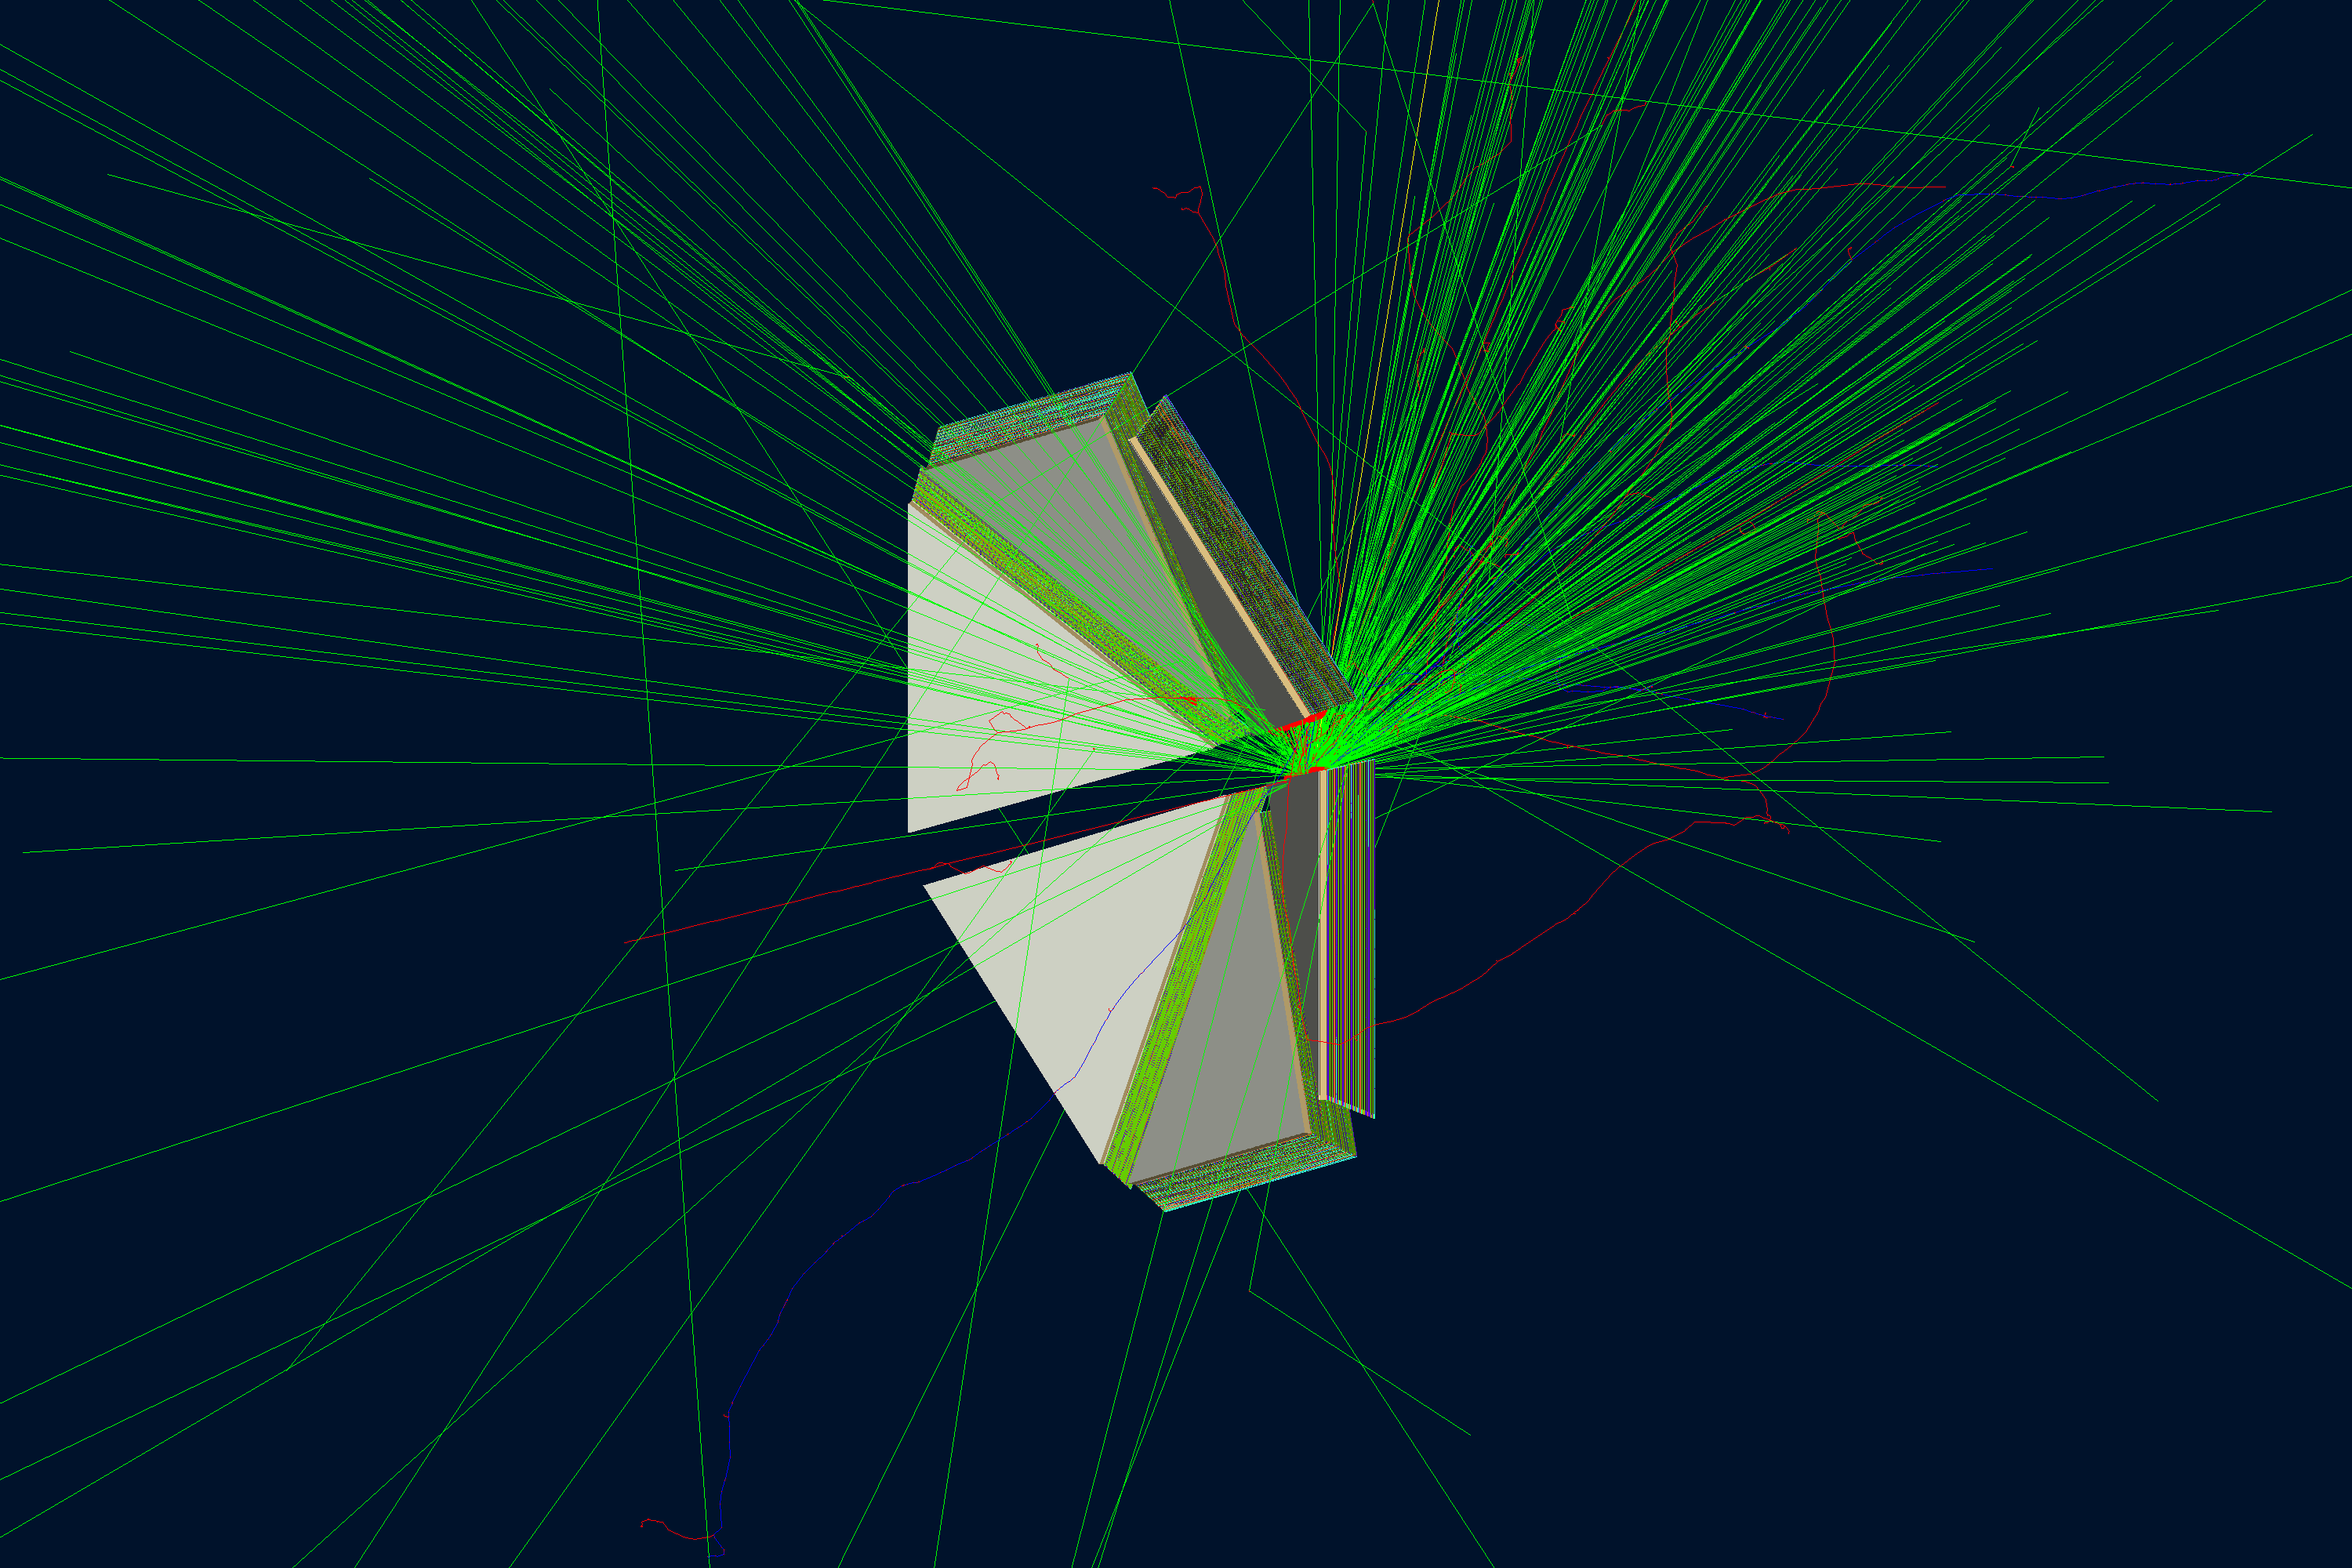
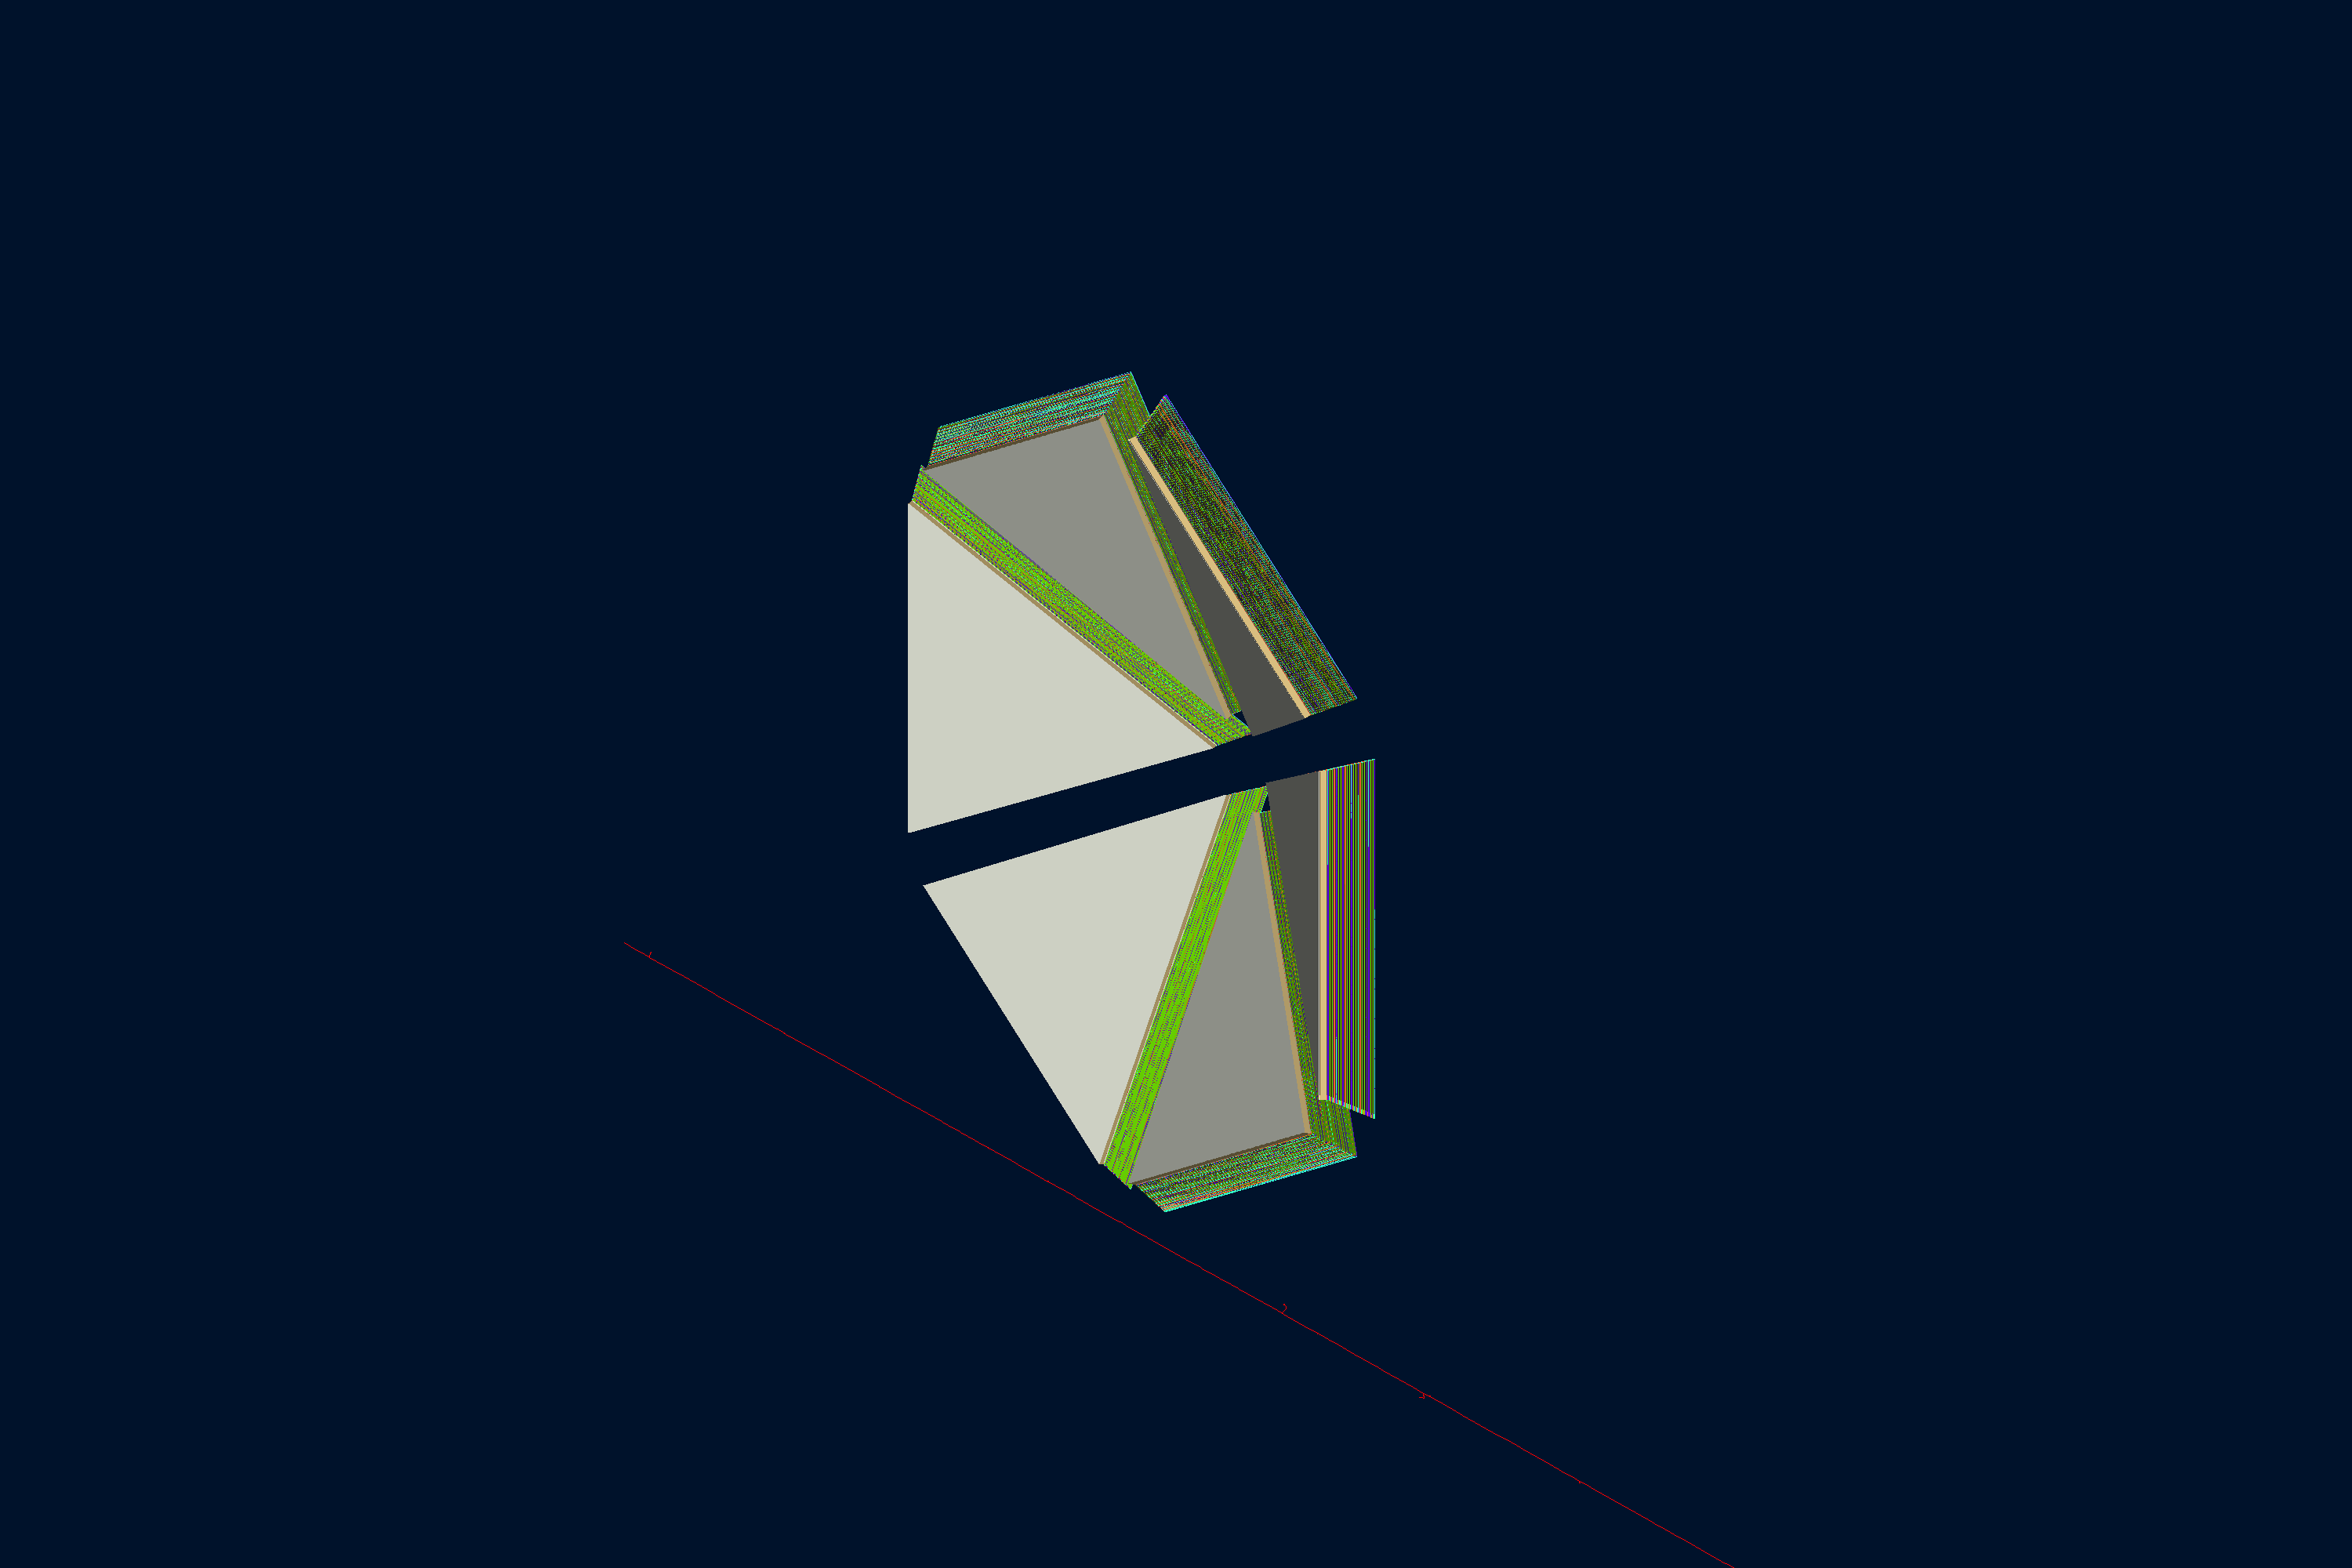
added gfield documentation and ec view

diff --git a/_documentation/fields/plugins.md b/_documentation/fields/plugins.md
@@ -1,0 +1,185 @@
+---
+layout: default
+title: Field Plugins
+order: 42
+description: Supply a magnetic field from a shared-library plugin with the generic gfields key
+permalink: /documentation/fields/plugins/
+---
+
+# Field Plugins
+
+*Upcoming in the next release.*
+
+When a field cannot be expressed as an ideal [multipole](/home/documentation/fields/multipoles) —
+for example a measured field map, or any custom model — a **field plugin** supplies it. The generic
+`gfields` YAML key names the field, selects a plugin by `type`, and forwards every other key to that
+plugin verbatim. No change to GEMC is needed to add a new field type.
+
+```yaml
+gfields:
+  - name: myfield
+    type: mytype
+    some_parameter: 1.5
+    another_parameter: "30*cm"
+```
+
+<br/>
+
+## How a type selects a plugin
+
+The `type` value is turned into a shared-library name following the convention
+
+```
+gfield<type>Factory
+```
+
+so `type: mytype` loads `gfieldmytypeFactory.gplugin`. GEMC finds it on the plugin search path
+(see [search path](#plugin-search-path)), `dlopen`s it, and calls its `GFieldFactory` entry point.
+
+<br/>
+
+## The `gfields` keys
+
+Only two keys are mandatory; two more configure the Geant4 integration. **Every other scalar key is
+forwarded to the plugin** as a string (units preserved), so the plugin alone decides which
+parameters it understands.
+
+| Key | Default | Meaning |
+|-----|---------|---------|
+| `name` | *(required)* | Unique field name used by the field registry |
+| `type` | *(required)* | Selects the plugin shared library `gfield<type>Factory` |
+| `integration_stepper` | `G4DormandPrince745` | Geant4 stepper class name |
+| `minimum_step` | `1.0*mm` | Minimum step for the `G4ChordFinder` |
+| *(anything else)* | — | Passed straight to the plugin as a string parameter |
+
+Because extra keys pass through untouched, the same `gfields` parser serves every present and
+future field plugin.
+
+<br/>
+
+## Writing a field plugin
+
+A plugin is a shared library that derives from `GField` and exports a C factory function.
+
+### Plugin class
+
+```cpp
+// myfield.h
+#pragma once
+#include <gemc/gfields/gfield.h>
+
+class MyField : public GField {
+public:
+    explicit MyField(const std::shared_ptr<GOptions>& g) : GField(g) {}
+
+    // Required: return B at the lab-frame point pos = {x, y, z}.
+    void GetFieldValue(const double pos[3], G4double* bfield) const override;
+
+    // Optional: parse and cache parameters once before stepping begins.
+    void load_field_definitions(GFieldDefinition gfd) override;
+};
+```
+
+### Required entry point
+
+Every plugin must export this exact symbol so GEMC can instantiate it through `dlsym`:
+
+```cpp
+// myfield.cc
+extern "C" GField* GFieldFactory(const std::shared_ptr<GOptions>& g) {
+    return static_cast<GField*>(new MyField(g));
+}
+```
+
+### Reading parameters
+
+`load_field_definitions` receives a `GFieldDefinition` whose `field_parameters` map holds every
+forwarded key as a string. Two base-class helpers parse the common cases (both honor unit
+expressions such as `30*cm`):
+
+```cpp
+void MyField::load_field_definitions(GFieldDefinition gfd) {
+    gfield_definitions = gfd;                          // keep a copy
+
+    int    poles    = get_field_parameter_int("some_count");
+    double distance = get_field_parameter_double("another_parameter");  // "30*cm" → mm
+}
+```
+
+`GetFieldValue` then fills `bfield[0..2]` with `Bx, By, Bz` in Geant4 units. Multiply your stored
+values by the matching CLHEP unit (`CLHEP::tesla`, `CLHEP::kilogauss`, …) so the result is unit-correct.
+
+<br/>
+
+## Build
+
+Field plugins build exactly like other GEMC plugins — a shared library with the `.gplugin` suffix.
+With Meson, register the plugin in your `meson.build`:
+
+```meson
+clas12_plugins += [{
+    'name'                : 'gfieldmytypeFactory',
+    'sources'             : files('myfield.cc'),
+    'dependencies'        : [gemc_dep],
+    'include_directories' : [include_directories('.')],
+}]
+```
+
+The `name` must match the `gfield<type>Factory` convention so the `type` key resolves to this
+library.
+
+<br/>
+
+## Plugin search path
+
+GEMC searches for `<plugin_name>.gplugin` in this order:
+
+1. Directories in `-plugin_path=<dir>:<dir>` (command line or YAML).
+2. Directories in the `GEMC_PLUGIN_PATH` environment variable.
+3. The current working directory.
+4. The GEMC installation `lib/` directory.
+
+The recommended production setup discovers the path with `pkg-config`:
+
+```sh
+export GEMC_PLUGIN_PATH=$(pkg-config --variable=plugindir clas12-systems)
+gemc mydetector.yaml
+```
+
+<br/>
+
+## Querying a field
+
+Both field routes can be inspected without running a simulation. These options evaluate **every
+configured field** at the requested points, print the result, and exit.
+
+### A single point
+
+```sh
+gemc mydetector.yaml -fieldAt="10*cm 0*mm 2*m"
+```
+
+The value is three coordinate expressions with units, separated by spaces. Each line of output
+reports the field name, the point, and `B`:
+
+```
+# field query results
+field=myfield source=fieldAt x=10 cm y=0 fm z=2 m Bx=... By=... Bz=... |B|=... tesla
+```
+
+### Many points from a file
+
+```sh
+gemc mydetector.yaml -fieldMapPoints=field_points.txt
+```
+
+Each non-empty, non-comment line holds three coordinate expressions; coordinates may be separated
+by spaces or commas, and `#` starts a comment:
+
+```
+# x y z field-query points
+0*cm  0*cm  0*cm
+10*cm, 0*cm, 0*cm
+```
+
+Both options may be combined; the single point is queried first, then the file points.

diff --git a/_documentation/fields/multipoles.md b/_documentation/fields/multipoles.md
@@ -1,0 +1,91 @@
+---
+layout: default
+title: Multipoles
+order: 41
+description: Define an ideal multipole magnetic field analytically with the gmultipoles key
+permalink: /documentation/fields/multipoles/
+---
+
+# Multipole Fields
+
+The `gmultipoles` key defines an **ideal multipole** magnetic field analytically — no map file is
+needed. It covers the standard accelerator elements: dipole, quadrupole, sextupole, and higher
+orders.
+
+```yaml
+gmultipoles:
+  - name: q1
+    pole_number: 4
+    strength: 1.2
+    rotaxis: z
+    vz: "30*cm"
+```
+
+Each list entry becomes one independently named field.
+
+<br/>
+
+## How the field is built
+
+The transverse field follows the common accelerator convention. With `n = pole_number / 2`:
+
+- the magnitude scales like `r^(n-1)`, with the reference radius fixed at `r0 = 1 m`;
+- the azimuthal dependence is `cos((n-1)·φ)` / `sin((n-1)·φ)` in the plane perpendicular to
+  `rotaxis`.
+
+So `pole_number: 2` (n = 1) is a uniform transverse dipole, `pole_number: 4` (n = 2) is a
+quadrupole whose field grows linearly with radius, and so on. The field is evaluated in a
+magnet-centered frame (translated by `vx/vy/vz`, unrolled by `-rotation_angle` about `rotaxis`),
+then rotated back into the lab frame.
+
+<br/>
+
+## Parameters
+
+| Key | Default | Meaning |
+|-----|---------|---------|
+| `name` | *(required)* | Unique field name |
+| `pole_number` | *(required)* | Even integer ≥ 2: 2 = dipole, 4 = quadrupole, 6 = sextupole, … |
+| `strength` | *(required)* | Field strength in Tesla, defined at the 1 m reference radius |
+| `rotaxis` | *(required)* | Longitudinal / rotation axis: `X`, `Y`, or `Z` |
+| `rotation_angle` | `0*deg` | Roll rotation about `rotaxis` (Geant4 angle units) |
+| `vx`, `vy`, `vz` | `0*mm` | Magnet origin in the lab frame (Geant4 length units) |
+| `longitudinal` | `false` | If `true`, return a uniform axial field aligned with `rotaxis` |
+| `integration_stepper` | `G4DormandPrince745` | Geant4 stepper class name |
+| `minimum_step` | `1.0*mm` | Minimum step for the `G4ChordFinder` |
+
+Strengths and lengths preserve unit expressions, so `strength: 1.2`, `vz: "30*cm"`, and
+`rotation_angle: "30*deg"` are all parsed with their units.
+
+<br/>
+
+## Longitudinal (solenoid-like) mode
+
+Setting `longitudinal: true` returns a uniform field aligned with `rotaxis` instead of a multipole
+expansion. This is a convenience for configuration symmetry, not a true multipole:
+
+```yaml
+gmultipoles:
+  - name: solenoid_like
+    pole_number: 2        # still required, but ignored in longitudinal mode
+    strength: 5           # uniform 5 T along the axis
+    rotaxis: z
+    longitudinal: true
+```
+
+<br/>
+
+## Quick check
+
+Print the field at a point without running a simulation:
+
+```sh
+gemc dipole.yaml -fieldAt="0*cm 0*cm 0*cm"
+```
+
+```
+field=dipole source=fieldAt x=0 fm y=0 fm z=0 fm Bx=... By=... Bz=... |B|=2 tesla
+```
+
+See [Field plugins → Querying](/home/documentation/fields/plugins#querying-a-field) for the full
+query syntax, including reading many points from a file.

diff --git a/_documentation/fields/index.md b/_documentation/fields/index.md
@@ -1,0 +1,68 @@
+---
+layout: default
+title: Fields
+order: 40
+description: Configure electromagnetic fields and query them along the beamline
+permalink: /documentation/fields/
+---
+
+# Fields
+
+GEMC propagates charged tracks through one or more **electromagnetic fields**. Each field is an
+independent, named object that Geant4 queries for a magnetic flux density `B` at every step point.
+
+Fields are declared in YAML. A configuration can mix any number of them; GEMC builds the field
+registry once per worker thread and hands each volume the field manager it needs.
+
+<br/>
+
+## Two ways to define a field
+
+| Route | YAML key | Use when |
+|-------|----------|----------|
+| [Multipoles](/home/documentation/fields/multipoles) | `gmultipoles` | You want an ideal dipole, quadrupole, sextupole, … defined analytically |
+| [Field plugins](/home/documentation/fields/plugins) | `gfields` | A shared-library plugin supplies the field (mapped fields, custom models) |
+
+Both routes produce the same kind of runtime object — a `GField` — and share the same integration
+controls (`integration_stepper`, `minimum_step`).
+
+<br/>
+
+## A minimal example
+
+```yaml
+gmultipoles:
+  - name: dipole
+    pole_number: 2
+    strength: 2
+    rotaxis: z
+    rotation_angle: "30*deg"
+```
+
+```sh
+gemc mydetector.yaml
+```
+
+<br/>
+
+## Common keys
+
+Every field entry — whichever route — accepts these integration controls:
+
+| Key | Default | Meaning |
+|-----|---------|---------|
+| `name` | *(required)* | Unique key used by the field registry |
+| `integration_stepper` | `G4DormandPrince745` | Geant4 stepper class name |
+| `minimum_step` | `1.0*mm` | Minimum step for the `G4ChordFinder` |
+
+<br/>
+
+## Querying a field
+
+You do not need a full simulation to inspect a field. Two options print `B` at chosen points and
+exit — see [Field plugins → Querying](/home/documentation/fields/plugins#querying-a-field):
+
+```sh
+gemc dipole.yaml -fieldAt="10*cm 0*mm 2*m"
+gemc dipole.yaml -fieldMapPoints=field_points.txt
+```